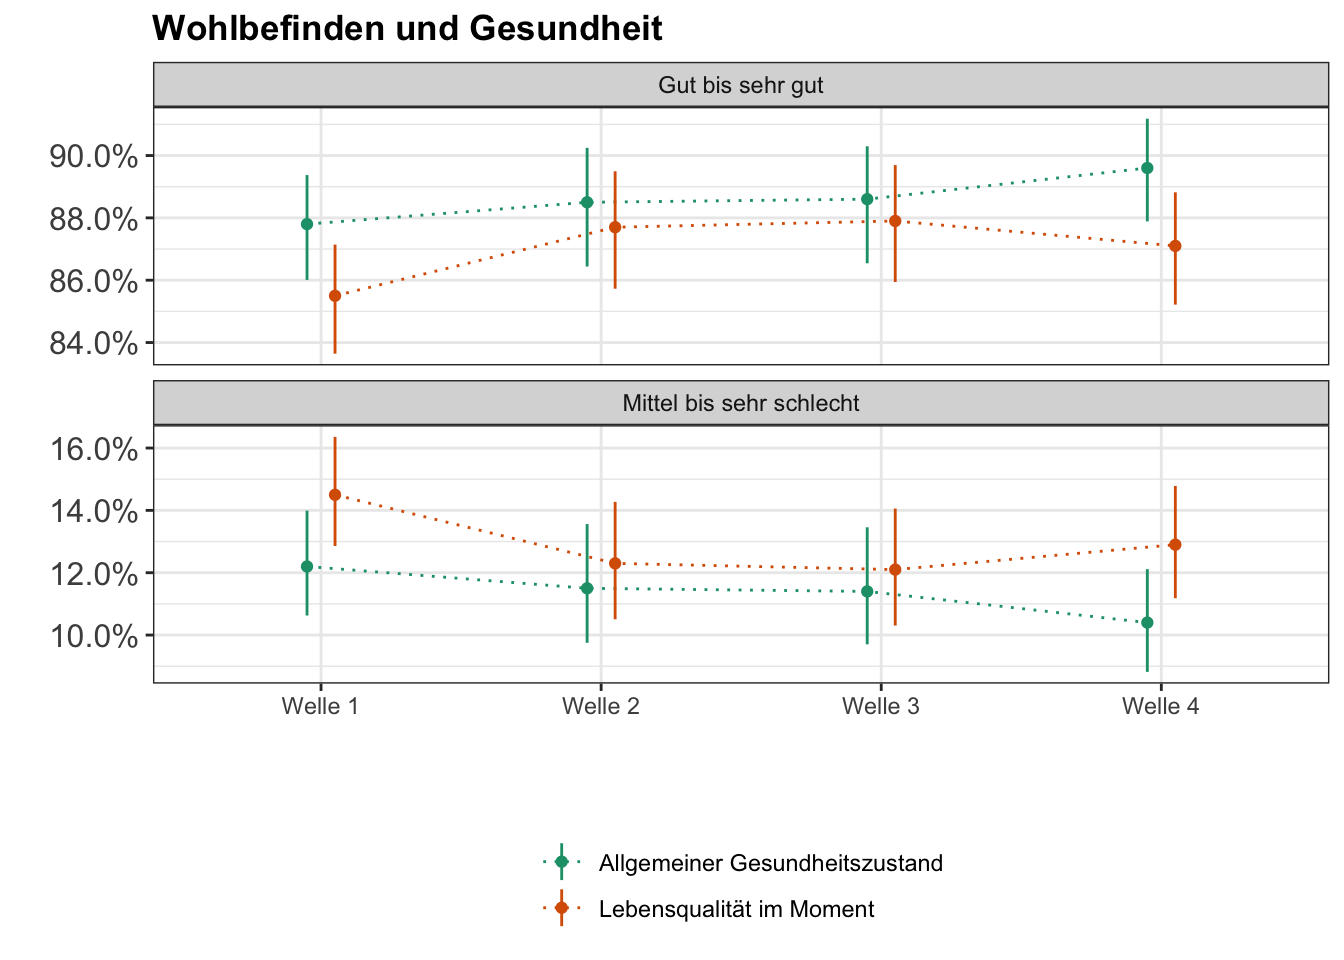
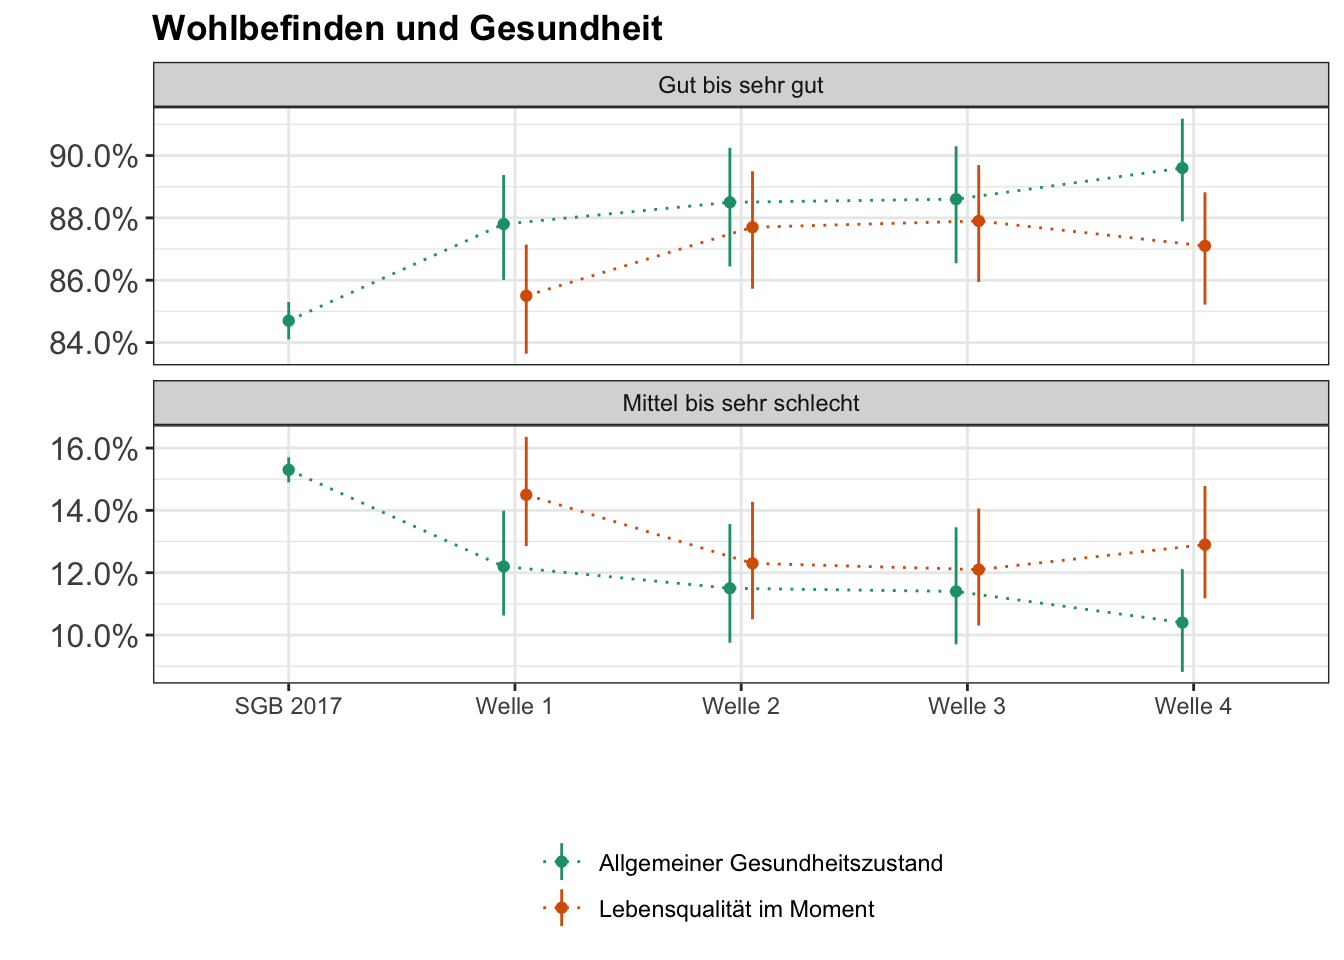
Report

diff --git a/content/post/2020-04-22-trend.html b/content/post/2020-04-22-trend.html
@@ -20,6 +20,7 @@ summary: 'Zeitliche Entwicklung Umfragewellen 1 bis 4'
 <li><strong>Welle 4</strong>: 27. April 2020 - 04. Mai 2020 (7. Woche nach lock down)</li>
 </ul>
 <p>dar.</p>
+<p>Bei gewissen Indikatoren verwenden wir zusätzlich die Resultate der Schweizerischen Gesundheitsbefragung (SGB) 2017. Die Zahlen der SGB stammen vom Bundesamt für Statistik (<a href="https://www.bfs.admin.ch/bfs/de/home/aktuell/neue-veroeffentlichungen.gnpdetail.2019-0117.html">Quelle Bundesamt für Statistik</a>).</p>
 <p> </p>
 <div id="allgemeine-gesundheit-und-wohlbefinden" class="section level1">
 <h1>Allgemeine Gesundheit und Wohlbefinden</h1>

diff --git a/public/post/trend/index.html b/public/post/trend/index.html
@@ -73,6 +73,7 @@
 <li><strong>Welle 4</strong>: 27. April 2020 - 04. Mai 2020 (7. Woche nach lock down)</li>
 </ul>
 <p>dar.</p>
+<p>Bei gewissen Indikatoren verwenden wir zusätzlich die Resultate der Schweizerischen Gesundheitsbefragung (SGB) 2017. Die Zahlen der SGB stammen vom Bundesamt für Statistik (<a href="https://www.bfs.admin.ch/bfs/de/home/aktuell/neue-veroeffentlichungen.gnpdetail.2019-0117.html">Quelle Bundesamt für Statistik</a>).</p>
 <p> </p>
 <div id="allgemeine-gesundheit-und-wohlbefinden" class="section level1">
 <h1>Allgemeine Gesundheit und Wohlbefinden</h1>
